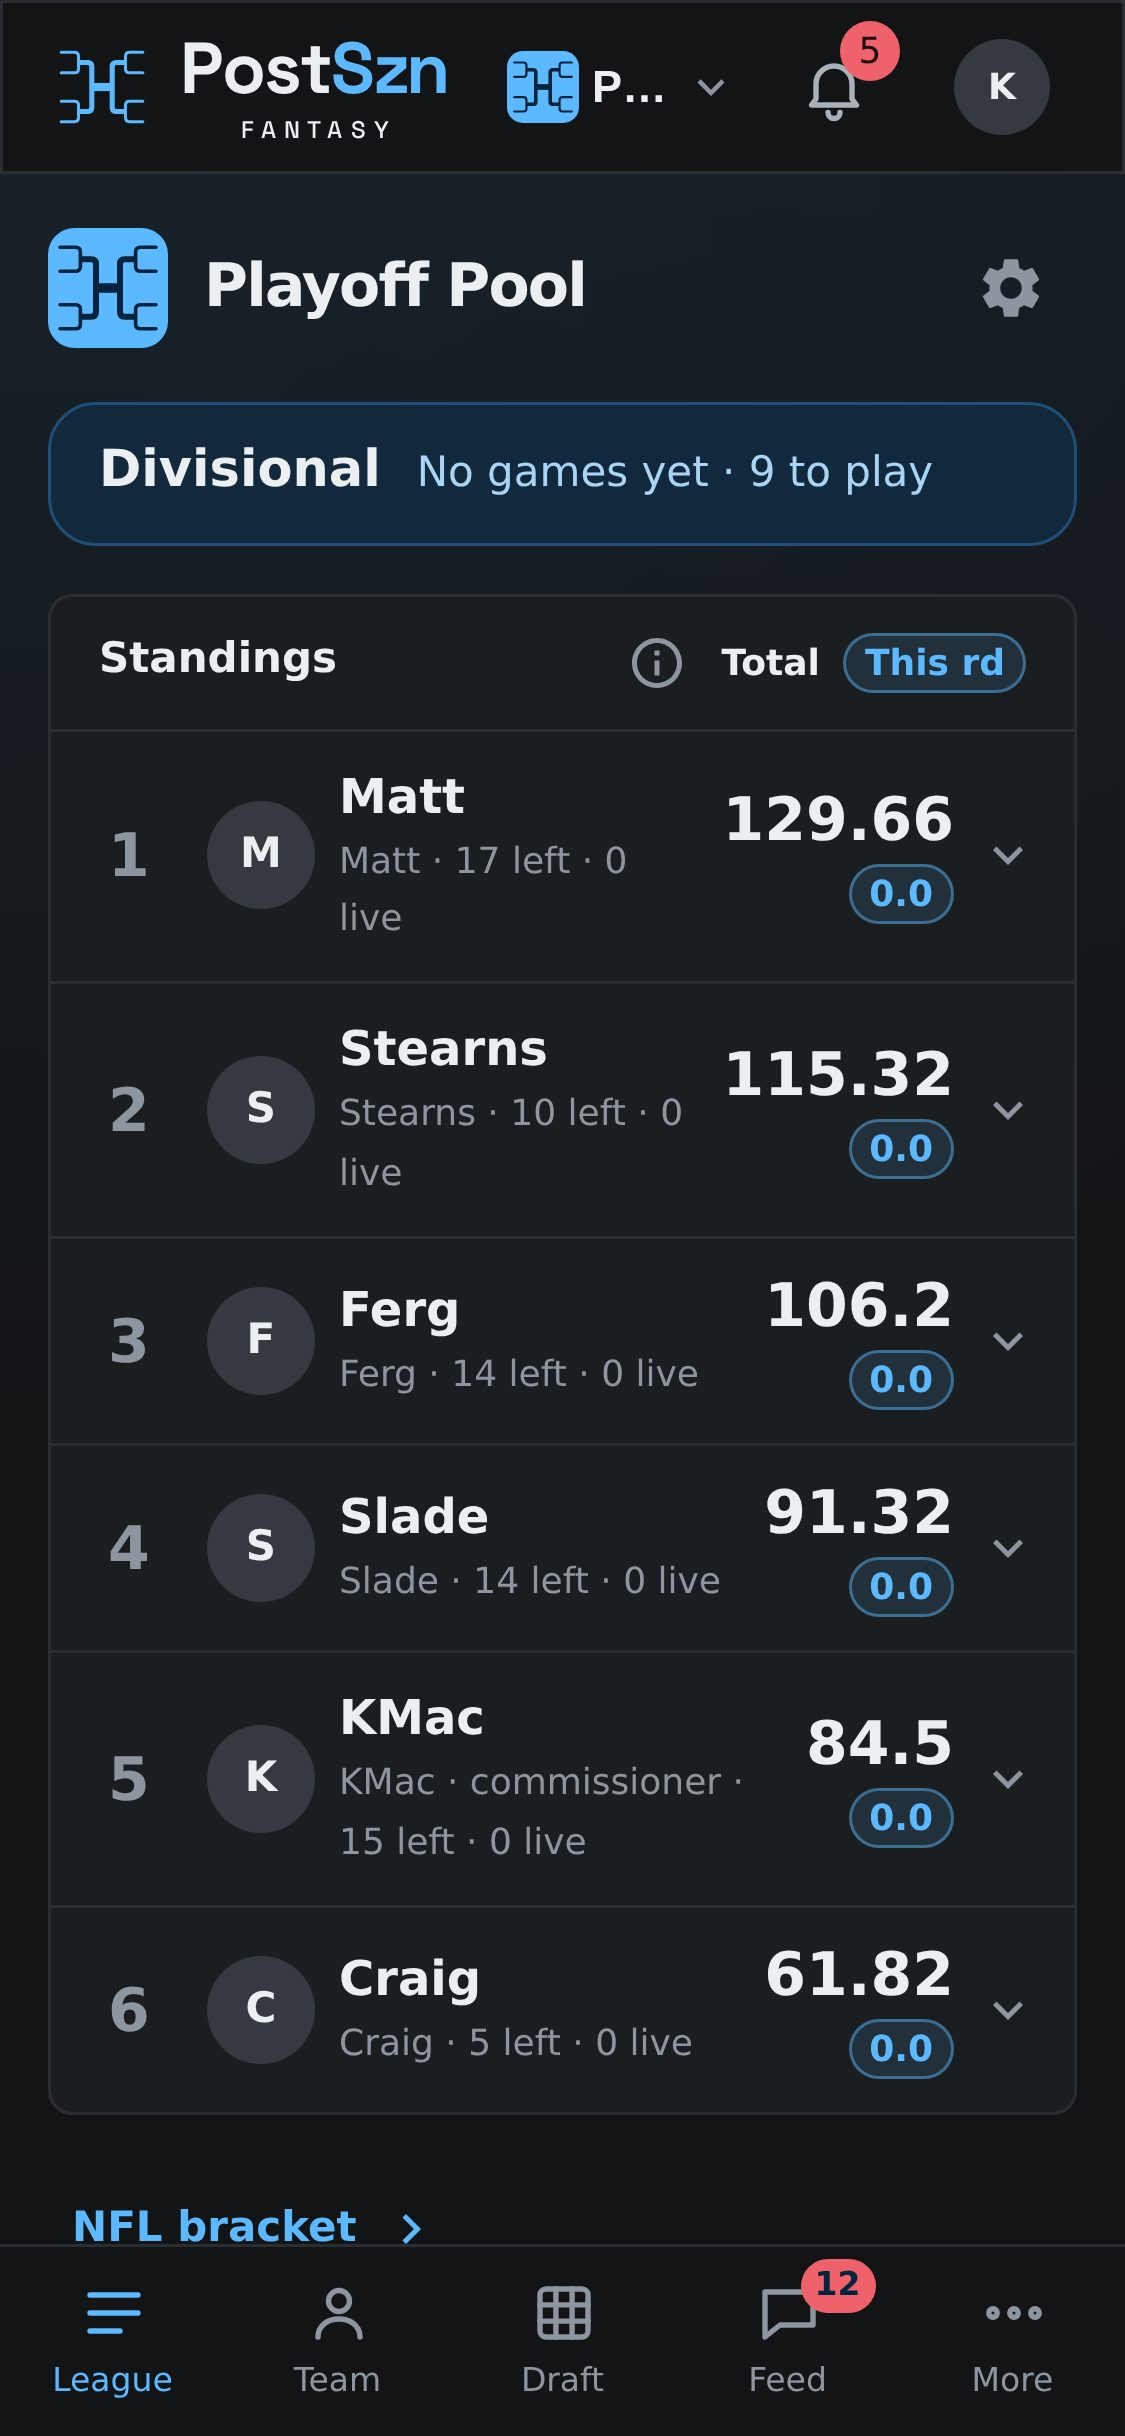
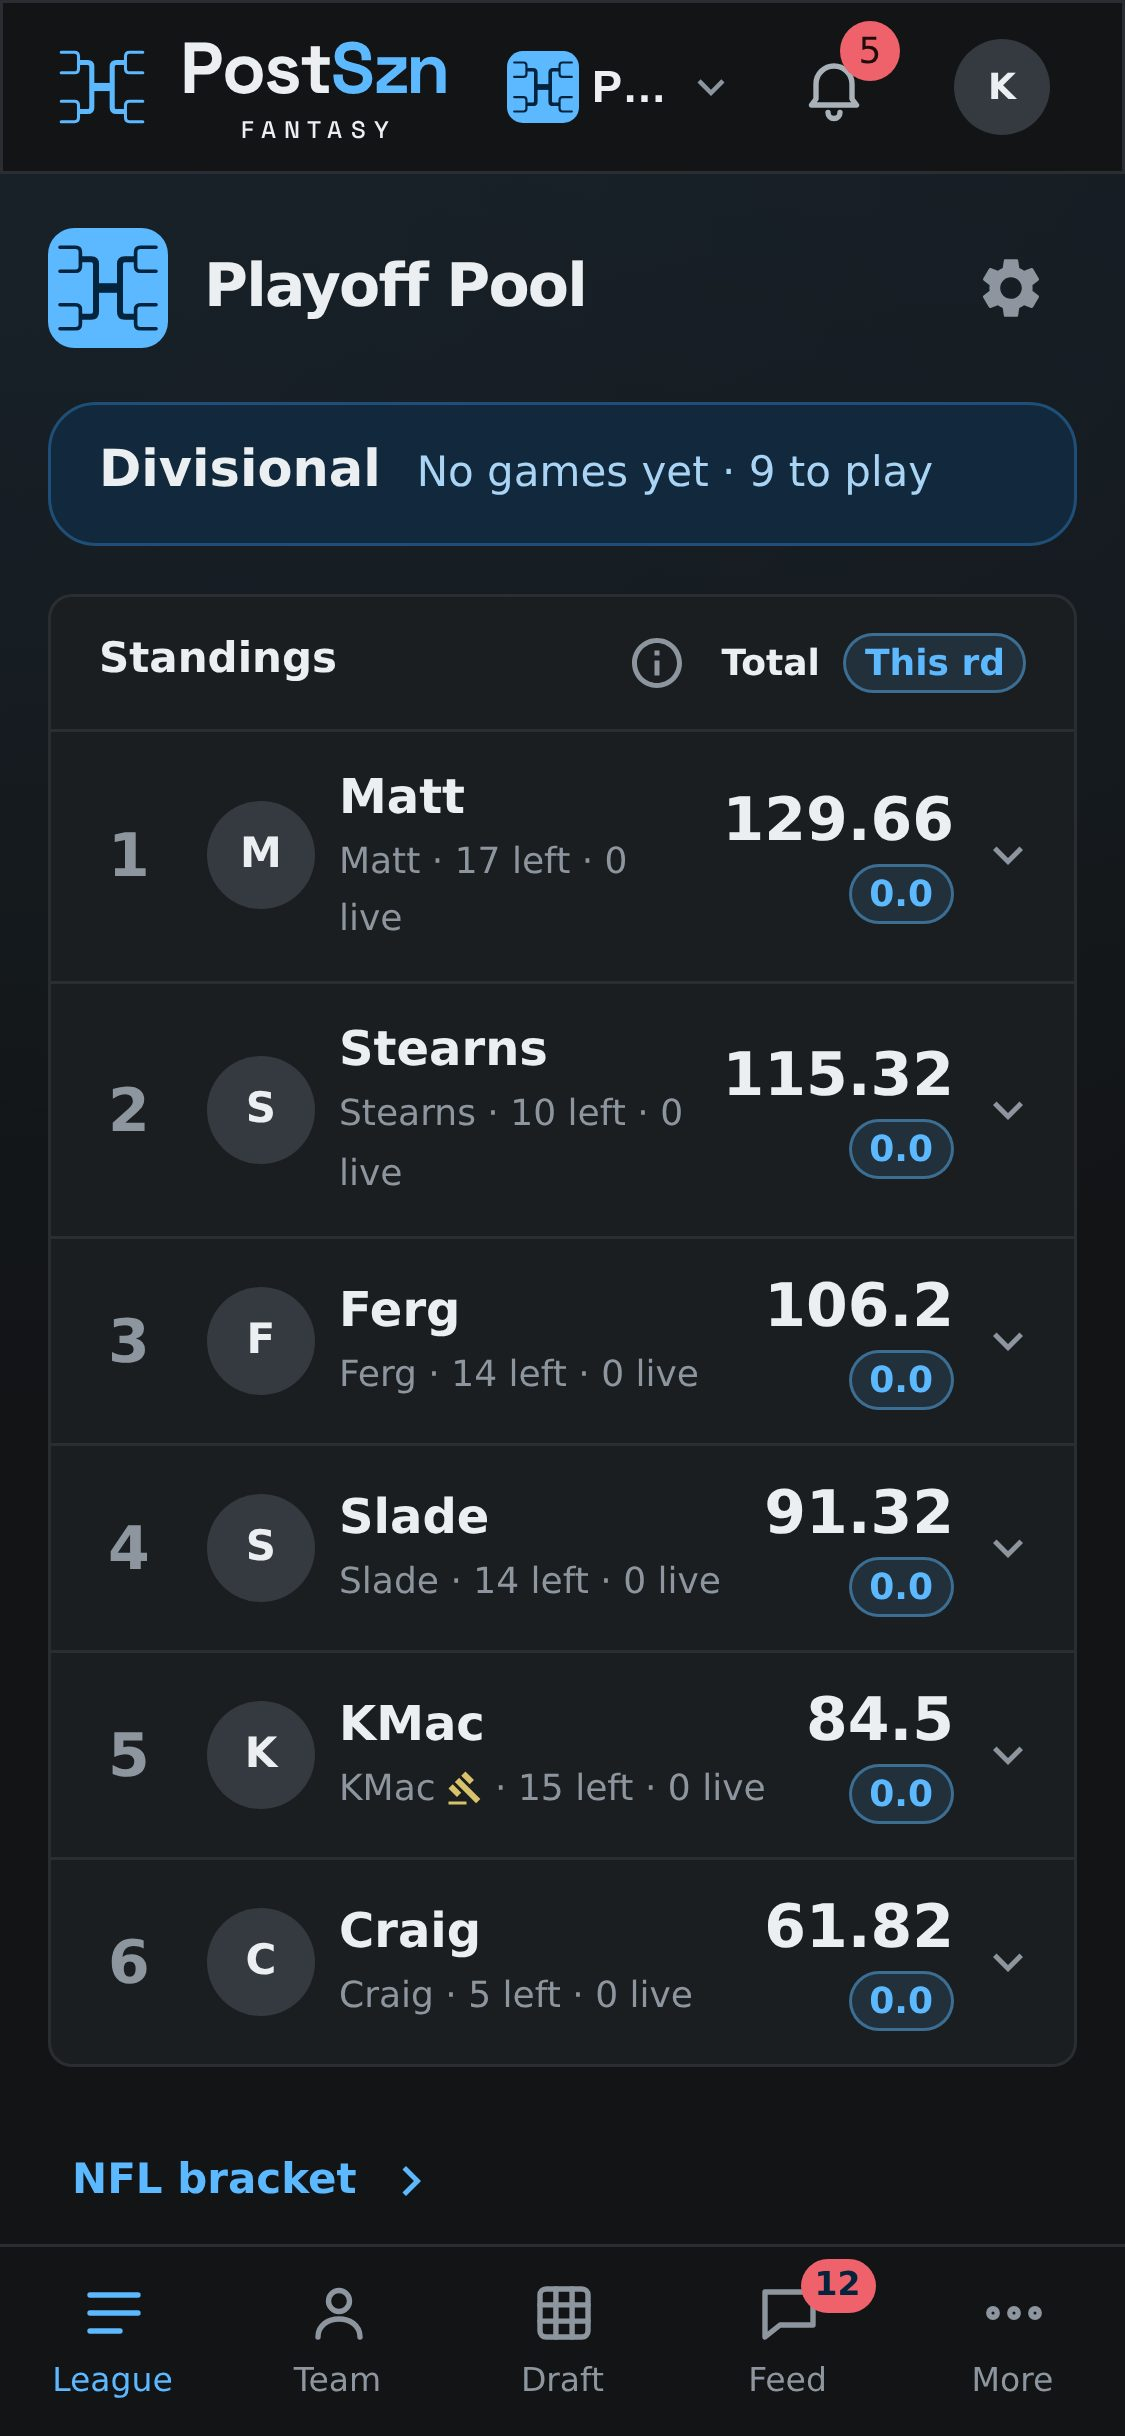
Gavel is the one commissioner symbol (#524)
* Gavel is the one commissioner symbol (#522)

* Recapture tour images for the commissioner gavel (#522)

diff --git a/frontend/src/components/league/Standings.tsx b/frontend/src/components/league/Standings.tsx
@@ -18,6 +18,7 @@ import type { SeasonOverview, Standings as StandingsData, StandingsRow } from ".
 import { HELP_TIPS } from "../../content/rules";
 import { useSeasonContext } from "../../contexts/SeasonContext";
 import { tint, tokens } from "../../theme";
+import CommissionerMark from "../common/CommissionerMark";
 import HelpTip from "../common/HelpTip";
 import PictureAvatar from "../common/PictureAvatar";
 import QueryBoundary from "../common/QueryBoundary";
@@ -25,6 +26,17 @@ import ShareCardButton from "../share/ShareCardButton";
 import { roundCard } from "../share/shareCards";
 import RankCell from "./RankCell";
 import { formatPoints, isOpenSpot, ROUNDS, rankLabel, rowDetail, tieNote } from "./standingsView";
+
+const RowDetail = ({ row, live }: { row: StandingsRow; live: boolean }) => {
+  const { owner, rest } = rowDetail(row, live);
+  return (
+    <>
+      {owner}
+      {row.isCommissioner && <CommissionerMark />}
+      {rest && ` · ${rest}`}
+    </>
+  );
+};
 
 const PLACE_COLORS = [tokens.gold, "grey.400", "warning.dark"];
 
@@ -154,7 +166,7 @@ const PhoneRow = ({
               {row.teamName}
             </Typography>
             <Typography variant="caption" component="div" sx={{ color: color ?? "text.secondary" }}>
-              {rowDetail(row, !finished)}
+              <RowDetail row={row} live={!finished} />
             </Typography>
           </Box>
           <Box sx={{ textAlign: "right", flexShrink: 0 }}>
@@ -271,7 +283,7 @@ const DesktopTable = ({ rows, round, finished }: Omit<RowProps, "row" | "index">
                   <Box>
                     <Typography sx={{ fontWeight: 600, color }}>{row.teamName}</Typography>
                     <Typography variant="caption" sx={{ color: color ?? "text.secondary" }}>
-                      {rowDetail(row, !finished)}
+                      <RowDetail row={row} live={!finished} />
                     </Typography>
                   </Box>
                 </Box>
@@ -354,7 +366,7 @@ const SlotList = ({ rows, season }: { rows: StandingsRow[]; season: SeasonOvervi
                   {open ? "Open slot" : row.teamName}
                 </Typography>
                 <Typography variant="caption" color="text.secondary" noWrap component="div">
-                  {rowDetail(row, false)}
+                  <RowDetail row={row} live={false} />
                 </Typography>
               </Box>
               {scheduled && (

diff --git a/frontend/src/components/settings/MembersSheet.tsx b/frontend/src/components/settings/MembersSheet.tsx
@@ -14,6 +14,7 @@ import { useRegenerateInvite, useRemoveMember, useSetMemberRole } from "../../ap
 import type { MemberSummary } from "../../api/types";
 import { INVITE_RETIRED_NOTE, LAST_COMMISSIONER_NOTE } from "../../content/rules";
 import Dialog from "../common/AppDialog";
+import CommissionerMark from "../common/CommissionerMark";
 import { mutationError } from "../common/friendlyError";
 import PictureAvatar from "../common/PictureAvatar";
 import { isLastCommissioner, removalWarning, toggledRole } from "./members";
@@ -93,11 +94,7 @@ const MembersSheet = ({ leagueId, members, currentUserId, readOnly = false, onCl
                 </Typography>
               </Box>
               {readOnly ? (
-                member.role === "commissioner" && (
-                  <Typography variant="caption" color="text.secondary">
-                    Commissioner
-                  </Typography>
-                )
+                member.role === "commissioner" && <CommissionerMark />
               ) : (
                 <Box sx={{ display: "flex", flexDirection: "column", alignItems: "flex-end" }}>
                   <Box component="label" sx={{ display: "flex", alignItems: "center", gap: 0.5 }}>

diff --git a/frontend/src/components/league/standingsView.test.ts b/frontend/src/components/league/standingsView.test.ts
@@ -85,15 +85,15 @@ describe("rowDetail", () => {
     progress: { finished: 0, live: 3, toPlay: 1, notPlaying: 5 },
   });
 
-  it("names the owner, the commissioner mark, players left and live", () => {
-    expect(rowDetail(lead, true)).toBe("Dave · commissioner · 5 left · 3 live");
+  it("splits the owner from players left and live", () => {
+    expect(rowDetail(lead, true)).toEqual({ owner: "Dave", rest: "5 left · 3 live" });
   });
 
   it("stops at the owner once the season is over", () => {
-    expect(rowDetail(lead, false)).toBe("Dave · commissioner");
+    expect(rowDetail(lead, false)).toEqual({ owner: "Dave", rest: "" });
   });
 
   it("says an open slot is waiting", () => {
-    expect(rowDetail(row(2, 0, { owner: null }), false)).toBe("Waiting for a player");
+    expect(rowDetail(row(2, 0, { owner: null }), false).owner).toBe("Waiting for a player");
   });
 });

diff --git a/frontend/src/components/league/standingsView.ts b/frontend/src/components/league/standingsView.ts
@@ -35,13 +35,8 @@ export const ROUNDS = [
   { key: "superBowl", label: "Super Bowl", short: "Super Bowl" },
 ] as const;
 
-/** One-line detail under a team name: owner, commissioner mark and, while live, players left. */
-export const rowDetail = (row: StandingsRow, live: boolean): string =>
-  [
-    row.owner ?? "Waiting for a player",
-    row.isCommissioner ? "commissioner" : null,
-    live ? `${row.playersLeft} left` : null,
-    live ? `${row.progress.live} live` : null,
-  ]
-    .filter(Boolean)
-    .join(" · ");
+/** The owner, then the rest of the detail line (players left, live) once a round is on. */
+export const rowDetail = (row: StandingsRow, live: boolean): { owner: string; rest: string } => ({
+  owner: row.owner ?? "Waiting for a player",
+  rest: live ? `${row.playersLeft} left · ${row.progress.live} live` : "",
+});

diff --git a/frontend/src/components/invite/InviteMembers.tsx b/frontend/src/components/invite/InviteMembers.tsx
@@ -1,5 +1,6 @@
 import { Avatar, Box, Card, Typography } from "@mui/material";
 import type { InvitePreview } from "../../api/types";
+import CommissionerMark from "../common/CommissionerMark";
 
 const initials = (name: string): string =>
   name
@@ -47,11 +48,7 @@ const InviteMembers = ({ preview }: { preview: InvitePreview }) => {
               {initials(member.displayName)}
             </Avatar>
             <Typography sx={{ flex: 1, fontWeight: 600 }}>{member.displayName}</Typography>
-            {member.isCommissioner && (
-              <Typography variant="caption" color="text.secondary">
-                Commissioner
-              </Typography>
-            )}
+            {member.isCommissioner && <CommissionerMark />}
           </Row>
         ))}
         {Array.from({ length: preview.openSpots }, (_, index) => (

diff --git a/frontend/src/components/draft/PickSourceBadge.tsx b/frontend/src/components/draft/PickSourceBadge.tsx
@@ -26,15 +26,17 @@ export const PickSourceIcon = ({ source, size = 11 }: { source: PickSource; size
   if (source === "manager") return null;
   const Icon = ICONS[source];
   return (
-    <Icon
+    <Box
+      component="span"
       aria-hidden
       data-testid={`source-${source}`}
-      sx={{
-        fontSize: size,
-        verticalAlign: "-0.15em",
-        color: isCommissioner(source) ? tokens.warning : tokens.muted,
-      }}
-    />
+      sx={{ color: isCommissioner(source) ? tokens.warning : tokens.muted, whiteSpace: "nowrap" }}
+    >
+      {source === "commissioner_auto" && (
+        <GavelIcon sx={{ fontSize: size, verticalAlign: "-0.15em" }} />
+      )}
+      <Icon sx={{ fontSize: size, verticalAlign: "-0.15em" }} />
+    </Box>
   );
 };
 

diff --git a/frontend/src/components/common/CommissionerMark.tsx b/frontend/src/components/common/CommissionerMark.tsx
@@ -1,0 +1,16 @@
+import GavelIcon from "@mui/icons-material/Gavel";
+import { Box } from "@mui/material";
+import { tokens } from "../../theme";
+import { visuallyHidden } from "./visuallyHidden";
+
+/** The one symbol for "commissioner"; the hidden text keeps it readable aloud (visible text first). */
+const CommissionerMark = () => (
+  <Box component="span" sx={{ ml: 0.5, color: tokens.warning, whiteSpace: "nowrap" }}>
+    <GavelIcon aria-hidden sx={{ fontSize: "1em", verticalAlign: "-0.12em" }} />
+    <Box component="span" sx={visuallyHidden}>
+      , commissioner
+    </Box>
+  </Box>
+);
+
+export default CommissionerMark;

diff --git a/frontend/src/components/league/Standings.test.tsx b/frontend/src/components/league/Standings.test.tsx
@@ -70,9 +70,7 @@ describe("Standings", () => {
     expect(within(items[0] as HTMLElement).getByText("Team 1")).toBeInTheDocument();
     expect(within(items[0] as HTMLElement).getByText("84.2")).toBeInTheDocument();
     expect(within(items[0] as HTMLElement).getByText("12.6")).toBeInTheDocument();
-    expect(
-      within(items[1] as HTMLElement).getByText("owner2 · commissioner · 6 left · 2 live"),
-    ).toBeInTheDocument();
+    expect(items[1]?.textContent).toContain("owner2, commissioner · 6 left · 2 live");
   });
 
   it("expands one row at a time to the four rounds, with a dash for rounds to come", () => {

diff --git a/frontend/src/pages/SettingsPage.test.tsx b/frontend/src/pages/SettingsPage.test.tsx
@@ -134,7 +134,7 @@ describe("League settings", () => {
     fireEvent.click(screen.getByRole("button", { name: /^Members/ }));
     const sheet = screen.getByRole("dialog", { name: "Members" });
     expect(within(sheet).getByText("Kyle")).toBeInTheDocument();
-    expect(within(sheet).getByText("Commissioner")).toBeInTheDocument();
+    expect(within(sheet).getByText(", commissioner")).toBeInTheDocument();
     expect(within(sheet).queryByRole("switch")).toBeNull();
     expect(within(sheet).queryByRole("button", { name: "Remove from league" })).toBeNull();
   });

diff --git a/e2e/tests/settings.spec.ts b/e2e/tests/settings.spec.ts
@@ -90,7 +90,7 @@ test.describe("league settings", () => {
 
     await page.getByRole("button", { name: /^Members/ }).click();
     const members = page.getByRole("dialog", { name: "Members" });
-    await expect(members.getByText("Commissioner", { exact: true })).toBeVisible();
+    await expect(members.getByText(", commissioner", { exact: true })).toBeAttached();
     await expect(members.getByRole("switch")).toHaveCount(0);
   });
 });

diff --git a/AGENTS.md b/AGENTS.md
@@ -236,7 +236,7 @@ PostSznFantasy/
         │   ├── TeamPage.tsx    # Any team: header with the team-settings cog (rank, total), a hurt-starter banner with Go to bench (`hurtStarters` in `lineupView.ts`), round strip, Starters / Bench / Eliminated for the chosen round, player sheet
         │   └── NotFoundPage.tsx# 404 handler
         ├── components/
-        │   ├── common/         # Delight pass (#408): `AppToast` (the one toast style, used by the draft, More and round-win toasts), `Confetti` (one burst, tap to dismiss, nothing under reduced motion; shown once per season by SeasonRecap), `Illustration` + `EmptyState` (`illustration` prop: leagues, messages, lineup; one action per empty state). Every new animation reads `useReducedMotion`; the draft board's pick reveal (team-color edge, `data-revealed`) and the clock bar's turn pulse are CSS keyframes gated on it
+        │   ├── common/         # `CommissionerMark` (#522): the gavel is the one symbol for "commissioner" (standings detail line, member lists, invite preview, draft board pick marks, where a commissioner auto pick adds the bolt); never write the word as a label next to a person. Delight pass (#408): `AppToast` (the one toast style, used by the draft, More and round-win toasts), `Confetti` (one burst, tap to dismiss, nothing under reduced motion; shown once per season by SeasonRecap), `Illustration` + `EmptyState` (`illustration` prop: leagues, messages, lineup; one action per empty state). Every new animation reads `useReducedMotion`; the draft board's pick reveal (team-color edge, `data-revealed`) and the clock bar's turn pulse are CSS keyframes gated on it
         │   ├── common/         # Shared bits. `AppDialog` is MUI `Dialog` plus the back-closes behaviour (import it as `Dialog` for any confirm dialog; keep plain MUI for the unsaved-changes blocker). `PullToRefresh` (League, Team and Feed routes in App.tsx): touch pull from the top refetches the active queries. Its indicator, shown only while pulling and for 2 s after a refresh (never at rest), has two lines from `pullToRefresh.ts`: `screenLine` ("This screen updated X ago", what the pull controls) and `liveStatsLine` ("Live stats auto-sync during games · synced X ago", the scheduler's box-score sync, which a pull cannot trigger). `LiveStatsNotice` (League and Team pages) renders only the daily-limit warning and the admin-only Refresh now. `useBlocker` callers must block only on a pathname change, since sheets push same-path entries
         │   ├── home/           # YourLeagues (league cards, Create, invite code, How to play), LeagueCard, leagueSummary (phase tag, rank), PastLeagues, InviteCodeForm, LegalFooter (privacy and terms)
         │   ├── invite/         # InviteMembers (members plus open slots), `inviteView` (sign-in / join / full / unavailable)
